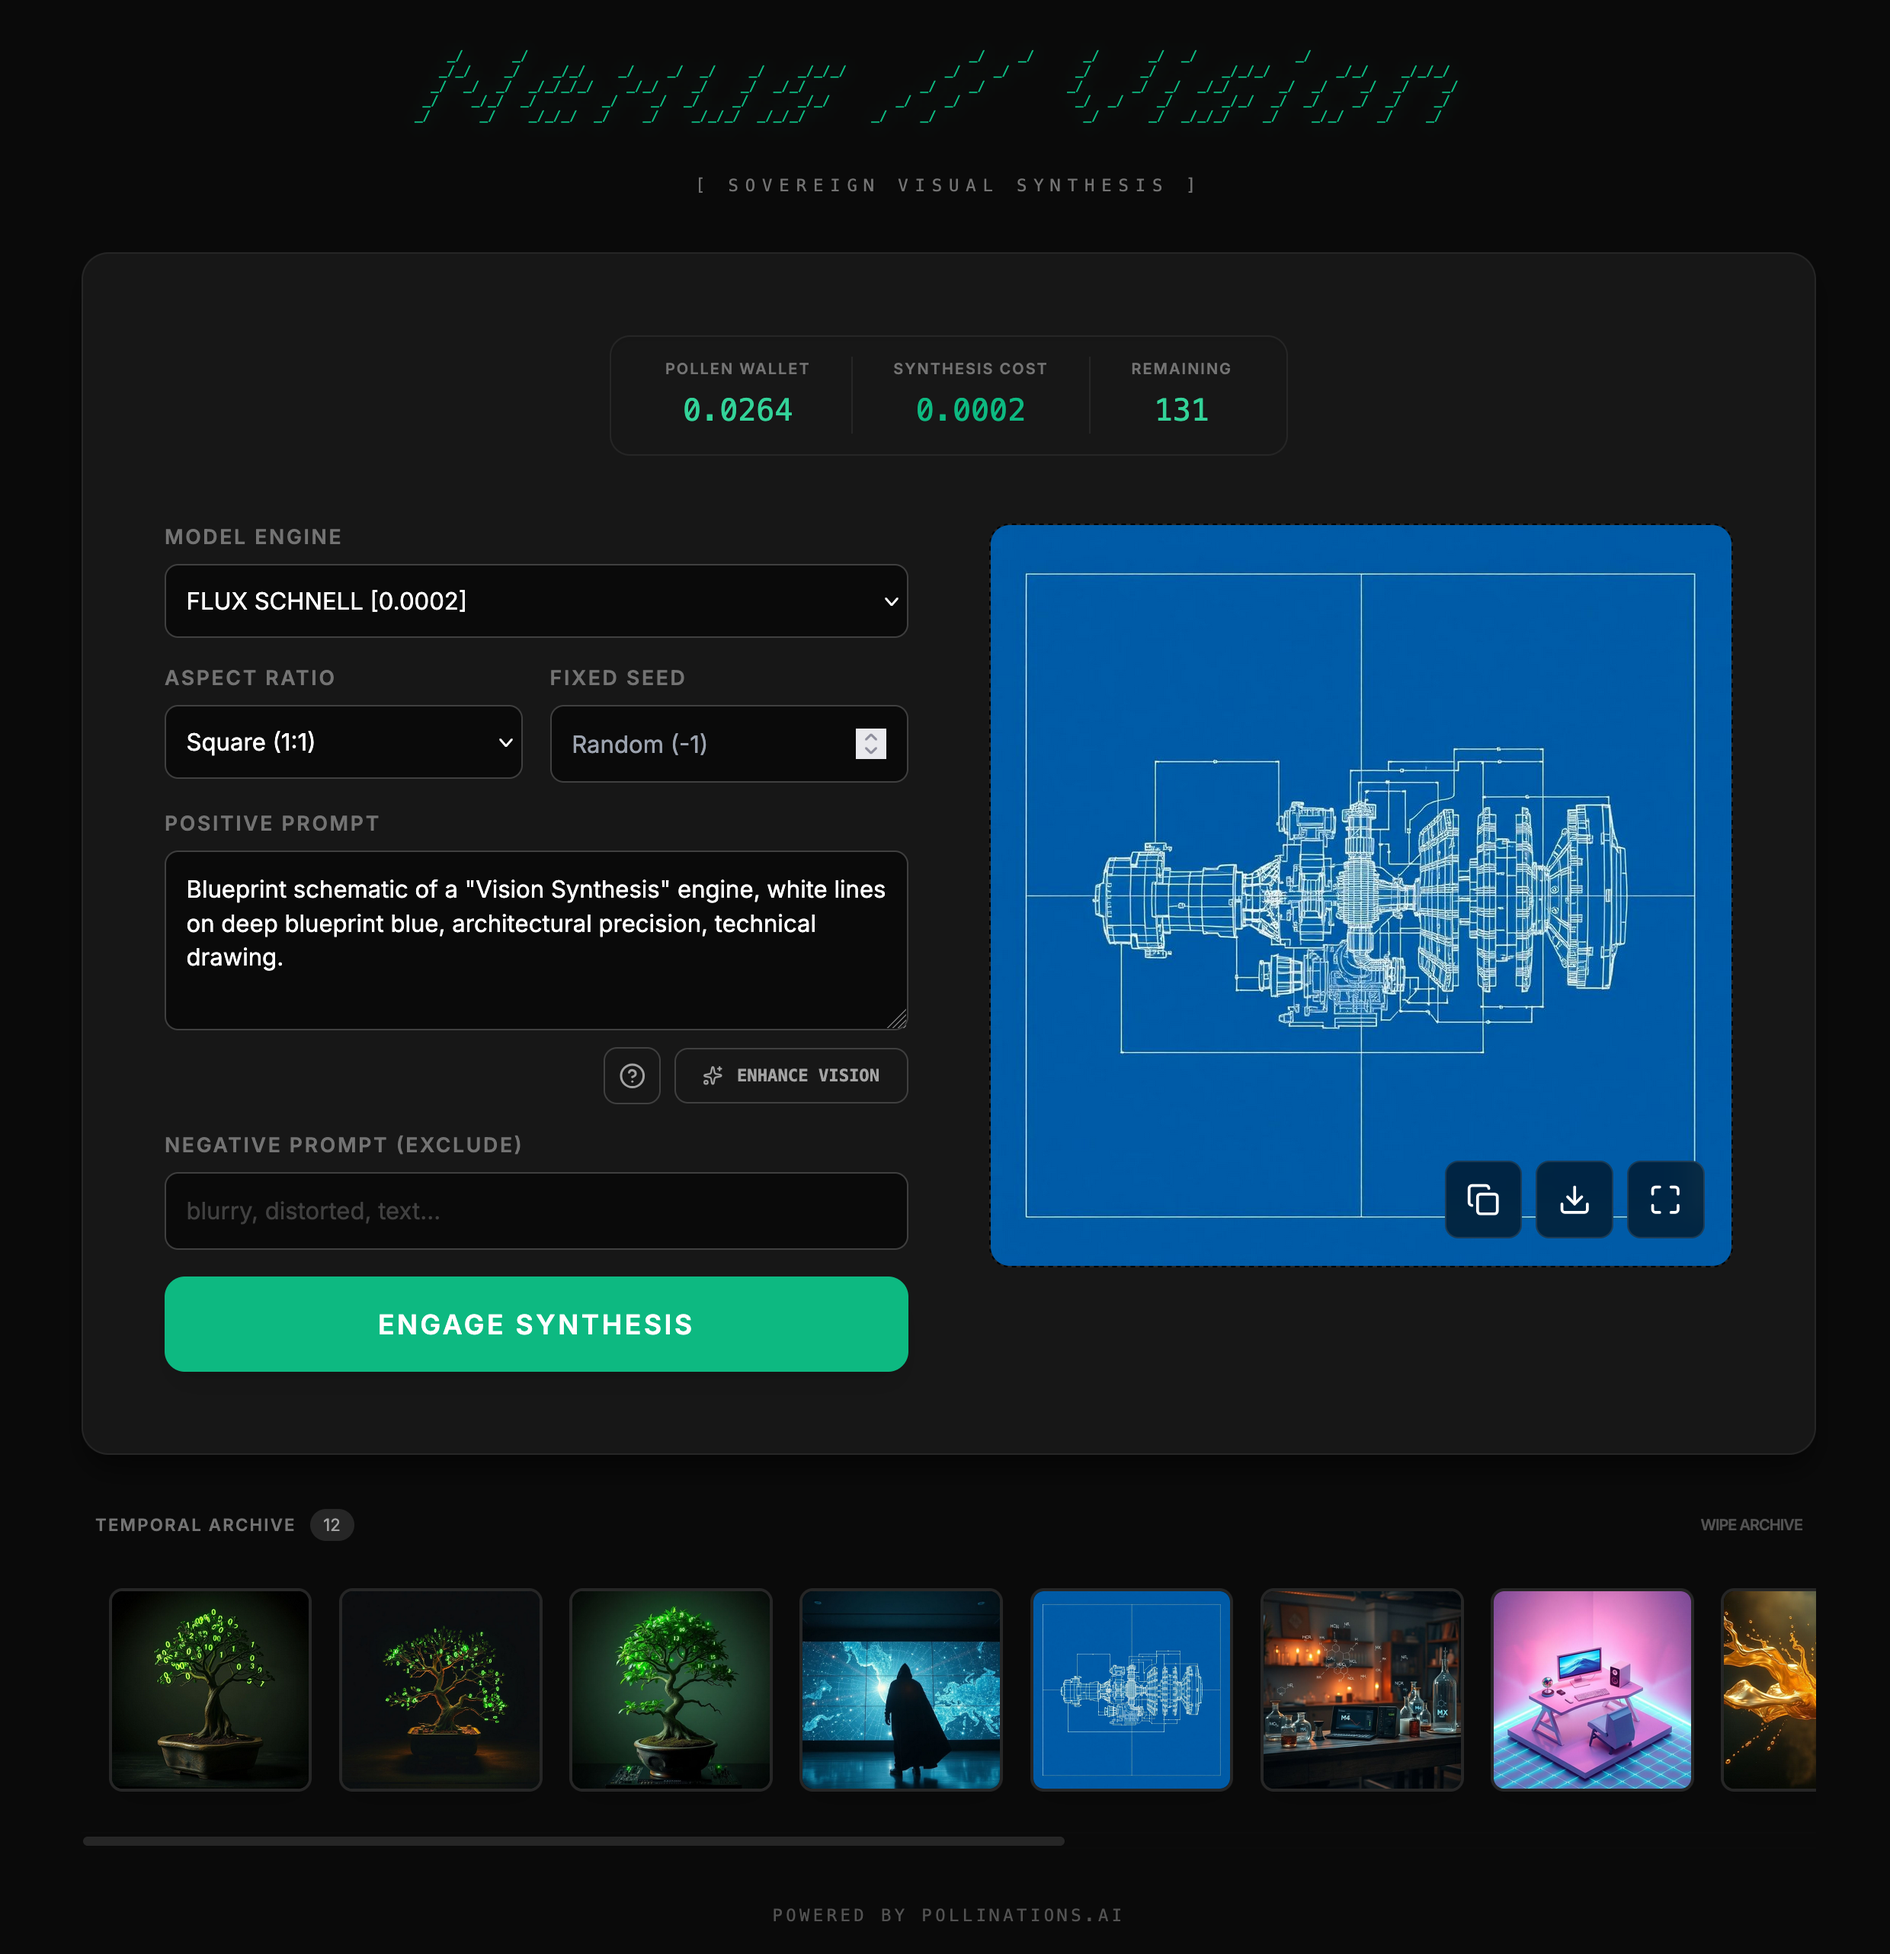
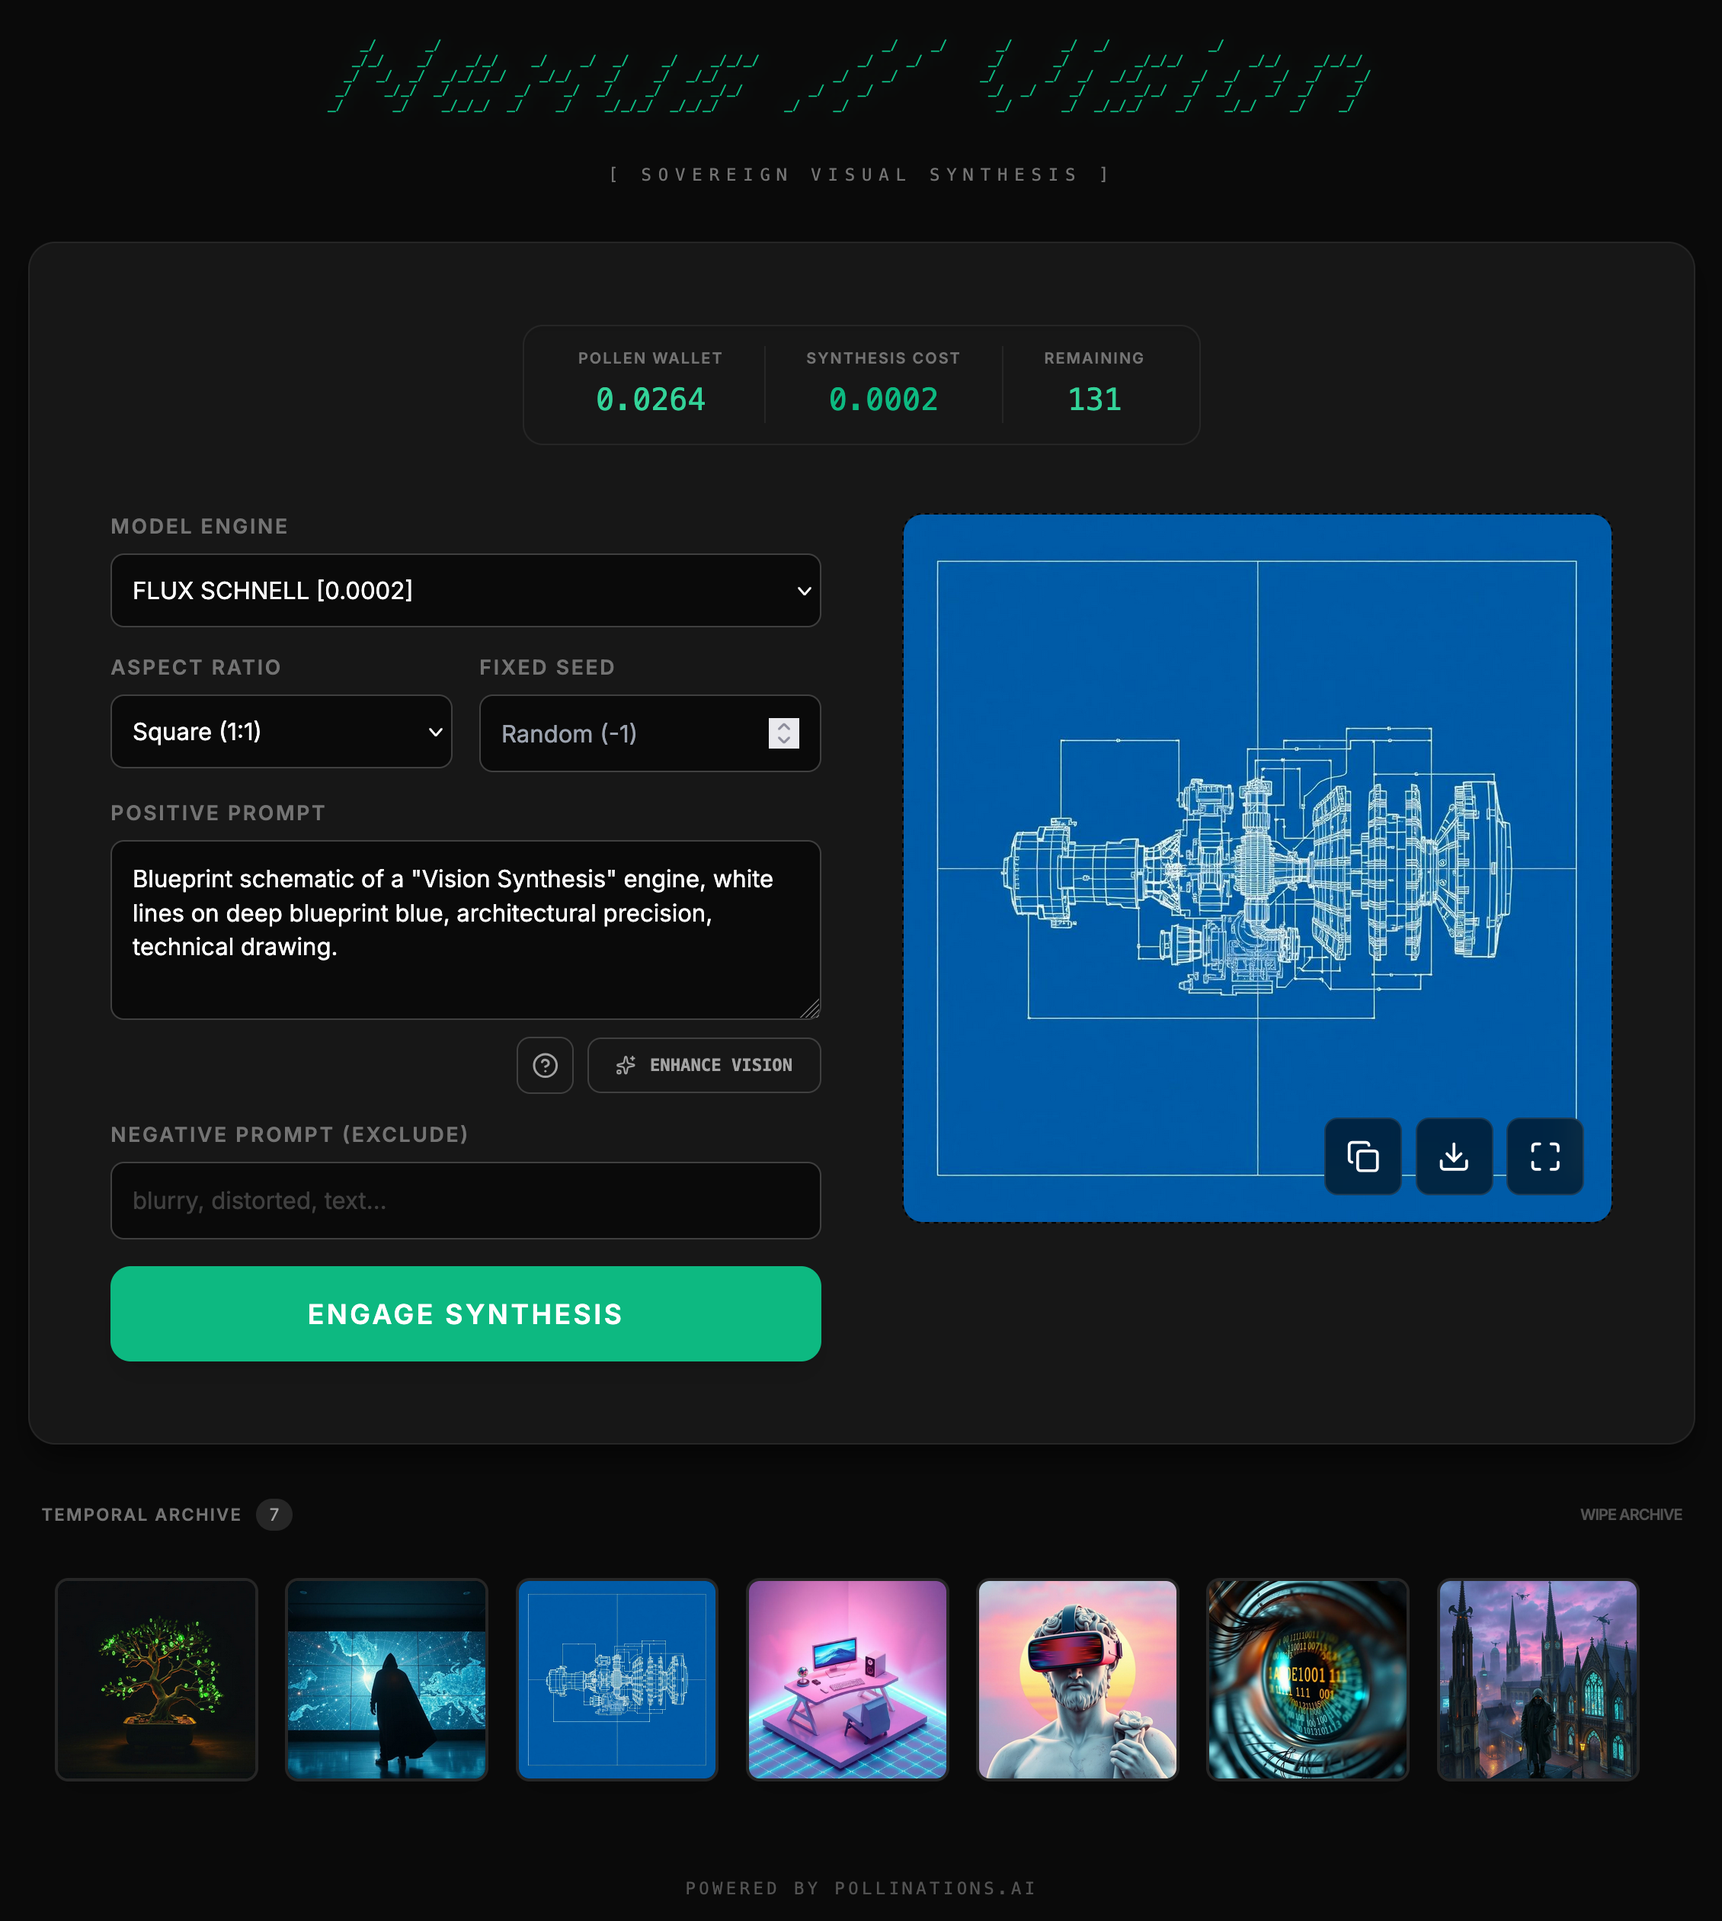
Milestone: Add Adaptive Canvas, Individual Pruning, and update documentation with new screenshot

diff --git a/index.html b/index.html
@@ -17,7 +17,7 @@
         .nexus-btn { background: #10b981; transition: transform 0.1s, background-color 0.2s; }
         .nexus-btn:hover { background: #059669; }
         .nexus-btn:active { transform: scale(0.98); }
-        .image-container { min-height: 512px; border: 2px dashed #262626; position: relative; }
+        .image-container { min-height: 400px; max-height: 70vh; border: 2px dashed #262626; position: relative; transition: aspect-ratio 0.5s cubic-bezier(0.4, 0, 0.2, 1); }
         .loader { border-top-color: #10b981; animation: spin 1s linear infinite; }
         @keyframes spin { to { transform: rotate(360deg); } }
         .token-tag { background: #065f46; color: #34d399; font-size: 10px; padding: 2px 6px; border-radius: 4px; font-weight: bold; }
@@ -157,7 +157,7 @@ _/      _/    _/_/_/  _/    _/    _/_/_/  _/_/_/        _/    _/                
             </div>
         </div>
 
-        <div class="grid grid-cols-1 lg:grid-cols-2 gap-12">
+        <div class="grid grid-cols-1 lg:grid-cols-2 gap-12 items-start">
             <!-- Controls Column -->
             <div class="space-y-6">
                 <div class="space-y-4">
@@ -174,7 +174,7 @@ _/      _/    _/_/_/  _/    _/    _/_/_/  _/_/_/        _/    _/                
                     <div class="grid grid-cols-2 gap-4">
                         <div>
                             <label class="block text-xs font-bold mb-2 text-neutral-500 uppercase tracking-widest">Aspect Ratio</label>
-                            <select id="aspectRatio" class="w-full nexus-input rounded-lg p-3 text-white text-sm">
+                            <select id="aspectRatio" onchange="updateLayoutRatio()" class="w-full nexus-input rounded-lg p-3 text-white text-sm">
                                 <option value="1024x1024">Square (1:1)</option>
                                 <option value="1280x720">Wide (16:9)</option>
                                 <option value="720x1280">Tall (9:16)</option>
@@ -220,7 +220,7 @@ _/      _/    _/_/_/  _/    _/    _/_/_/  _/_/_/        _/    _/                
             </div>
 
             <!-- Result Column -->
-            <div id="resultArea" class="image-container rounded-xl overflow-hidden flex items-center justify-center bg-black shadow-inner border border-neutral-800 group">
+            <div id="resultArea" style="aspect-ratio: 1/1;" class="image-container rounded-xl overflow-hidden flex items-center justify-center bg-black shadow-inner border border-neutral-800 group mx-auto w-full">
                 <div id="loadingOverlay" class="hidden absolute inset-0 bg-black/80 flex flex-col items-center justify-center space-y-4 z-10">
                     <div class="loader ease-linear rounded-full border-4 border-t-4 border-gray-200 h-12 w-12"></div>
                     <p id="loadingMsg" class="text-emerald-400 font-mono text-sm animate-pulse uppercase tracking-widest text-center px-4">Modulating Neural Lattice...</p>
@@ -347,6 +347,13 @@ _/      _/    _/_/_/  _/    _/    _/_/_/  _/_/_/        _/    _/                
                 else remGens.textContent = "∞";
                 isTokenBased ? modeEl.classList.remove('hidden') : modeEl.classList.add('hidden');
             }
+        }
+
+        function updateLayoutRatio() {
+            const ratio = document.getElementById('aspectRatio').value;
+            const resArea = document.getElementById('resultArea');
+            const dims = ratio.split('x');
+            resArea.style.aspectRatio = `${dims[0]} / ${dims[1]}`;
         }
 
         async function updateBalanceOnly() {
@@ -499,11 +506,15 @@ _/      _/    _/_/_/  _/    _/    _/_/_/  _/_/_/        _/    _/                
             document.getElementById('negativeInput').value = item.negative || '';
             document.getElementById('aspectRatio').value = item.ratio;
             document.getElementById('seedInput').value = item.seed;
+            
+            // Trigger UI updates
+            updateLayoutRatio();
+            updateModelPrice();
+            
             document.getElementById('outputImage').src = item.url;
             document.getElementById('outputImage').classList.remove('hidden');
             document.getElementById('placeholderText').classList.add('hidden');
             document.getElementById('floatingActions').classList.remove('hidden');
-            updateModelPrice();
         }
 
         function deleteFromHistory(index) {

diff --git a/README.md b/README.md
@@ -18,9 +18,10 @@
 
 - [x] **Dynamic Model Discovery**: Automatically fetches the latest visual engines from Pollinations.ai, categorized by cost and capability (Image, Token-Based, Pro).
 - [x] **Neural Prompt Augmentation**: Integrated "Enhance Vision" tool powered by xAI Grok 4 (Medium) to transform simple ideas into complex, cinematic prompts.
+- [x] **Adaptive Canvas**: The result area dynamically morphs its aspect ratio to match your selection (Square, Wide, Tall) for perfect spatial pre-visualization.
 - [x] **Temporal Archive**: An Apple Photo Booth-style horizontal filmstrip that saves your history and allows one-tap restoration of all parameters (Prompt, Seed, Ratio, Model).
+- [x] **Granular Archive Management**: Selective pruning of your history with individual entry deletion and one-tap archive wiping.
 - [x] **Live Pollen Wallet**: Real-time high-precision tracking of your Pollinations.ai credits and dynamic "Remaining Synthesis" calculation per model.
-- [x] **Multi-Parameter Synthesis**: Full control over Aspect Ratio (Square, Wide, Tall), Fixed Seeds, and Negative Prompts.
 - [x] **One-Tap Actions**: Copy generated visions directly to your system buffer or download them for permanent storage.
 
 ## 🏗 Architecture
